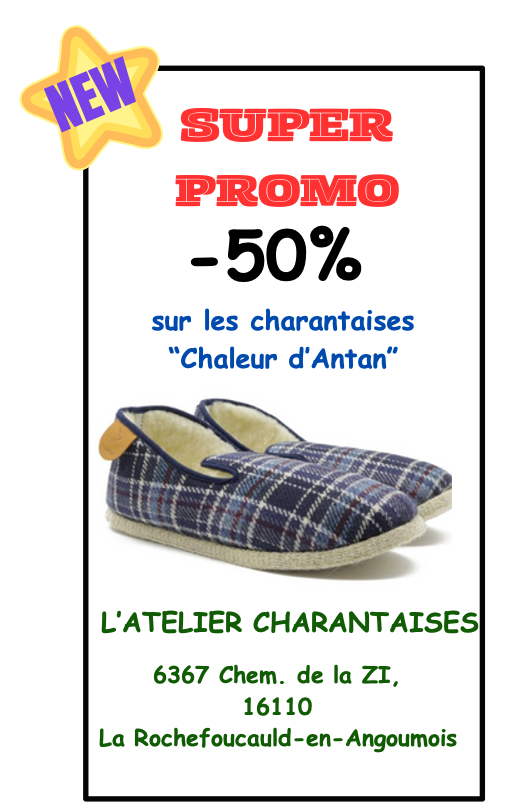
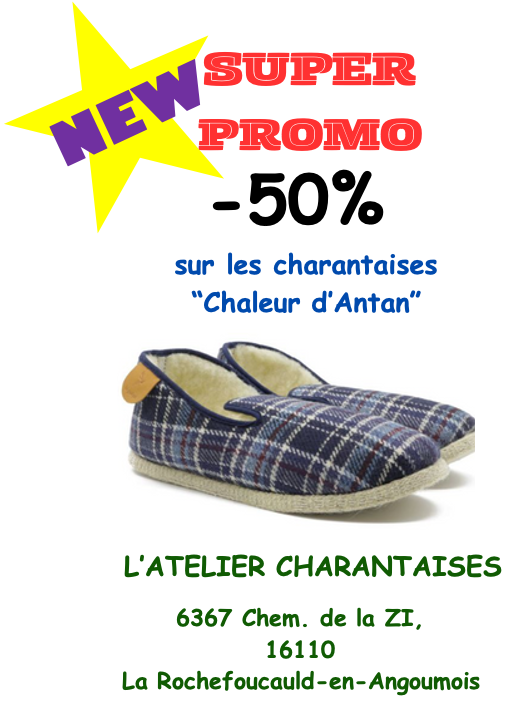
Ajout pubs

diff --git a/client/src/CSS/Home.css b/client/src/CSS/Home.css
@@ -1,5 +1,22 @@
+header {
+	position: fixed;
+	top: 0;
+	left: 0;
+	width: 100%;
+	height: 80px;
+	z-index: 1000;
+	background-color: white;
+	box-shadow: 0px 4px 6px rgba(0, 0, 0, 0.1);
+}
+
+body {
+	margin: 0;
+	padding: 0;
+	overflow-x: hidden;
+}
+
 #nos_events {
-	font-family: Arial, sans-serif;
+	font-family: "Comic Neue", sans-serif;
 	font-size: 4em;
 	font-weight: bold;
 	position: relative;
@@ -89,6 +106,8 @@
 	max-width: 300px;
 	height: 465px;
 	overflow: hidden;
+
+	width: 100%;
 }
 
 .card img {
@@ -150,4 +169,75 @@
 	width: 7em;
 	padding: .25em;
 	font-family: "Times New Roman", Times, serif;
+}
+@keyframes border-flash {
+	0% {
+		border-color: red;
+	}
+	33% {
+		border-color: green;
+	}
+	66% {
+		border-color: yellow;
+	}
+	100% {
+		border-color: red;
+	}
+}
+
+#pub {
+	display: flex;
+	flex-direction: column;
+	gap: 5px;
+}
+
+#pub img {
+	width: 100%;
+}
+
+#charentaises {
+	width: 100%;
+	max-width: 250px;
+	text-align: center;
+	border: 5px solid red;
+	animation: border-flash 1s infinite;
+}
+
+#crazy {
+	width: 100%;
+	max-width: 250px;
+	text-align: center;
+	border: 5px solid red;
+	animation: border-flash 1s infinite;
+}
+
+#hot {
+	width: 100%;
+	max-width: 250px;
+	text-align: center;
+	border: 5px solid red;
+	animation: border-flash 1s infinite;
+}
+
+.content-container {
+	display: grid;
+	grid-template-columns: 1fr auto;
+	gap: 0;
+	align-items: start;
+	width: 100%;
+	max-width: 1200px;
+	margin: 0 auto;
+	box-sizing: border-box;
+	overflow: hidden;
+}
+
+#events {
+	display: grid;
+	grid-template-columns: repeat(auto-fit, minmax(0px, 1fr));
+	gap: 0px;
+	width: 102%;
+	max-width: 1255px;
+	margin: 0px -36px;
+	box-sizing: border-box;
+	overflow: hidden;
 }

diff --git a/client/src/pages/Home.tsx b/client/src/pages/Home.tsx
@@ -3,6 +3,9 @@ import { events } from "../components/Evenements";
 import { useState, useEffect } from "react";
 import "../CSS/Home.css";
 import Header from "../components/header";
+import charantaisesImage from "../assets/images/pub_charantaises.png";
+import Crazy from "../assets/images/crazy.png";
+import Hots from "../assets/images/hots.png";
 
 function Home() {
 	const [visitorCount, setVisitorCount] = useState(10245); // Déplacez VisitorCounter ici
@@ -32,15 +35,24 @@ function Home() {
 				</p>
 			</div>
 
-			<img
-				src="../assets/images/pub_charantaises.png"
-				alt="charantaise forever"
-			/>
 			<h2 id="nos_events" className="rainbow">
 				<span className="text">Nos événements</span>
 			</h2>
-			<div id="events">
-				<EvenementsList evenements={events} />
+			<div className="content-container">
+				<div id="events">
+					<EvenementsList evenements={events} />
+				</div>
+				<div id="pub">
+					<div id="charentaises">
+						<img src={charantaisesImage} alt="charantaise forever" />
+					</div>
+					<div id="crazy">
+						<img src={Crazy} alt="crazy_frog" />
+					</div>
+					<div id="hot">
+						<img src={Hots} alt="Milf" />
+					</div>
+				</div>
 			</div>
 		</>
 	);

diff --git a/client/src/App.css b/client/src/App.css
@@ -1,0 +1,4 @@
+body {
+	cursor: url("http://www.zingerbug.com/cursors/cursors/spinning_heart_lavendar.gif"),
+		auto;
+}
